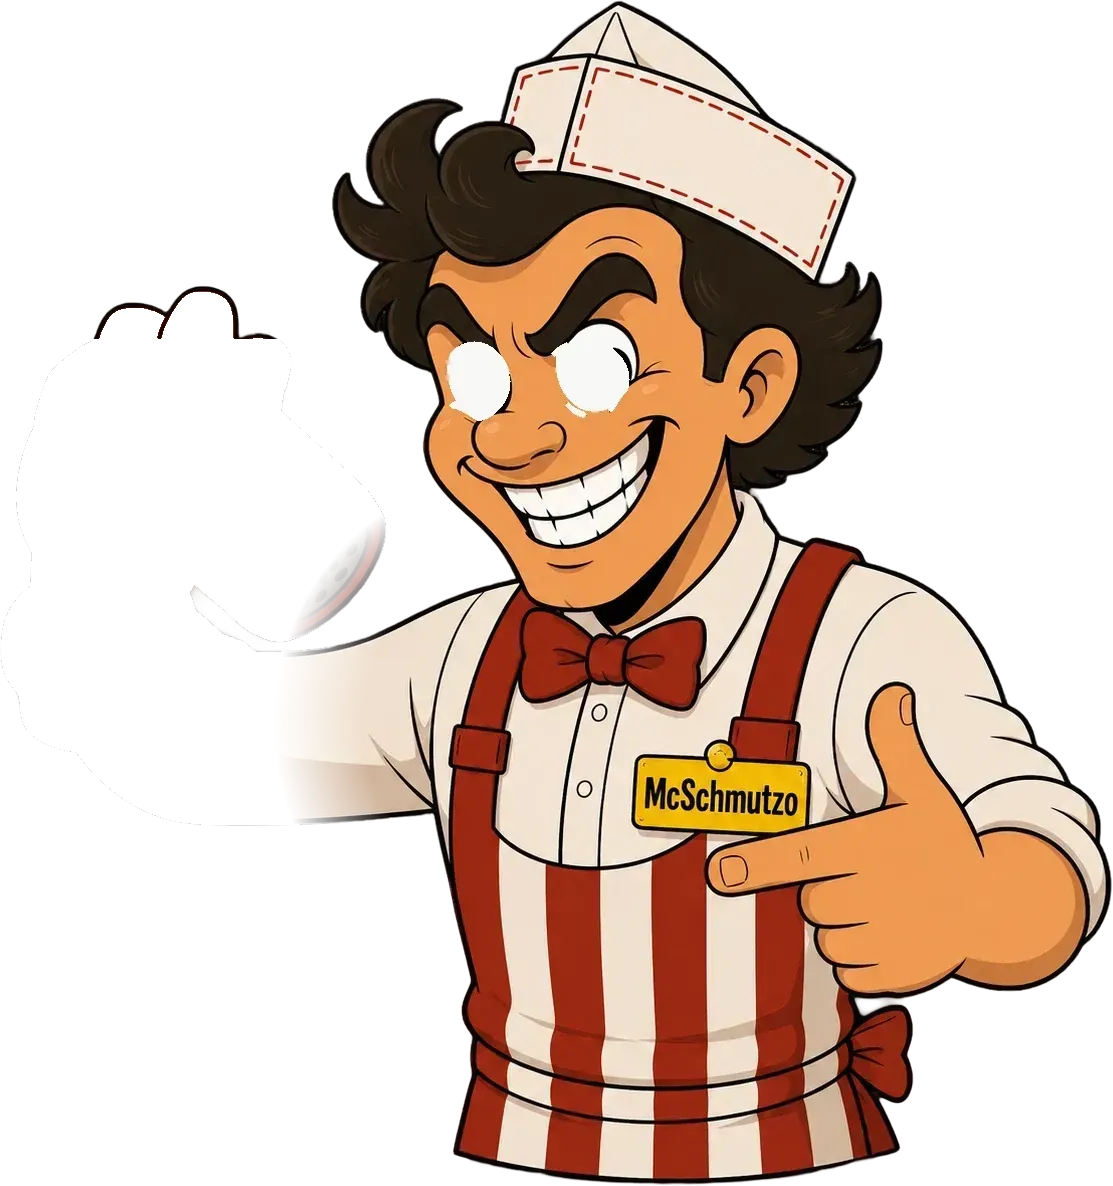
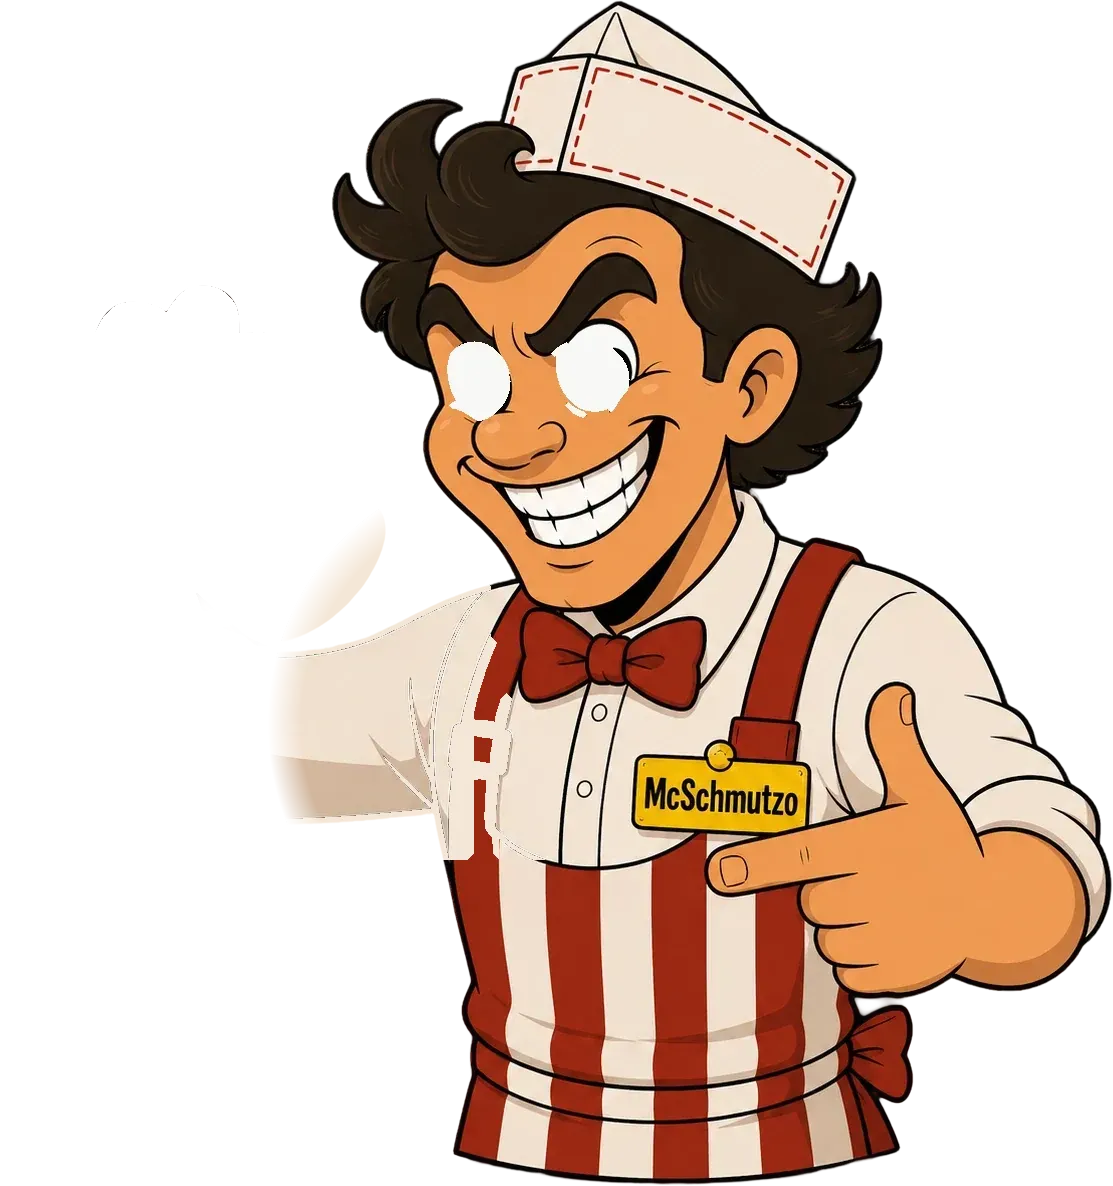
McSchmutzo: buy-bonus card animations + special chef arm outline fix
Buy-bonus modal: every feature card now animates like its board counterpart
instead of only the burger hopping.
- New BurgerStack.svelte rebuilds the H1 burger from its slice images and
  assembles / disassembles it (per-layer dy throw) exactly like the reels; the
  card clips + a reduced throw keep the burst clear of the copy/amount.
- Super Bonus wheel spins; both scatter-shack cards (Extra Chance + Normal
  Bonus) bob + rock, offset so they don't sway in lock-step.
- prefers-reduced-motion guarded.

Special (salting) chef: the leftover dark arm outline that showed when the
overlay arm flicked is gone — the kept shoulder patch now repaints the base
arm's outline as sleeve cream (outline-free) and the removed forearm/hand half
is fully cleared (dilated mask, no ghost). Verified in-game across a full shake
cycle: no black outline at the shoulder, no double at the hand, face intact.

diff --git a/apps/mcschmutzo/src/components/CustomBuyBonusModal.svelte b/apps/mcschmutzo/src/components/CustomBuyBonusModal.svelte
@@ -18,6 +18,7 @@
 	import { getContext } from '../game/context';
 	import { i18nDerived } from '../i18n/i18nDerived';
 	import { mcschmutzoStakeDerived } from '../state/mcschmutzoStake.svelte';
+	import BurgerStack from './BurgerStack.svelte';
 	import CustomConfirmModal from './CustomConfirmModal.svelte';
 
 	type ModeId = 'enhancer1' | 'featureSpin' | 'bonus1' | 'bonus2';
@@ -180,8 +181,20 @@
 				<div class="bb-divider"></div>
 				<p class="bb-desc">{i18nDerived.translate(mode.description)}</p>
 
-				<div class="bb-art" class:bb-art--burger={mode.id === 'featureSpin'}>
-					<img src={mode.art} alt="" draggable="false" />
+				<div
+					class="bb-art"
+					class:bb-art--burger={mode.id === 'featureSpin'}
+					class:bb-art--scatter={mode.id === 'bonus1'}
+					class:bb-art--wheel={mode.id === 'bonus2'}
+					class:bb-art--chance={mode.id === 'enhancer1'}
+				>
+					{#if mode.id === 'featureSpin'}
+						<!-- The Lock & Re-spin feature IS the burger symbol — rebuild it from its slices so it
+						     assembles / disassembles exactly like the reels. -->
+						<div class="bb-burger-holder"><BurgerStack /></div>
+					{:else}
+						<img src={mode.art} alt="" draggable="false" />
+					{/if}
 					{#if mode.badge}<span class="bb-badge">{mode.badge}</span>{/if}
 				</div>
 
@@ -398,22 +411,50 @@
 		object-fit: contain;
 		filter: drop-shadow(0 3px 5px rgba(0, 0, 0, 0.4));
 	}
-	/* The Lock & Re-spin feature IS the burger symbol — give it the board burger's playful energy: a
-	   seamless squash-and-stretch bounce ANCHORED at its base (transform-origin bottom), so the burger
-	   never translates and its base stays planted — the top rises only ~5% and the width grows ~5%,
-	   both well inside the card so the animation can never overflow into the copy or the amount badge. */
-	.bb-art--burger img {
-		transform-origin: 50% 100%;
-		animation: bb-burger-bob 2.1s ease-in-out infinite;
+	/* The Lock & Re-spin feature IS the burger symbol — it's rebuilt from its slices (BurgerStack) so it
+	   assembles / disassembles like the reels. The holder sizes it to the same footprint as the other
+	   icons and fixes the board cell's aspect so the slices line up. */
+	/* The burger card clips to its art box so the separating stack can never draw over the copy/amount,
+	   and the holder is left smaller than the others' icons to give the bun headroom to rise into. */
+	.bb-art--burger {
+		overflow: hidden;
 	}
-	@keyframes bb-burger-bob {
-		0%, 100% { transform: scale(1, 1); }
-		28% { transform: scale(0.96, 1.05); }
-		52% { transform: scale(1.05, 0.95); }
-		76% { transform: scale(0.99, 1.01); }
+	.bb-burger-holder {
+		height: clamp(52px, 9.5vmin, 82px);
+		aspect-ratio: 1.077;
+		/* Roughly half the reels' full throw — still a clear assemble/disassemble, but the extremes stay
+		   inside the (smaller) box. */
+		--sep: 0.55;
+	}
+	/* Super Bonus IS the prize wheel — spin it steadily so the card previews what it does. */
+	.bb-art--wheel img {
+		animation: bb-wheel-spin 5.5s linear infinite;
+	}
+	@keyframes bb-wheel-spin {
+		from { transform: rotate(0); }
+		to { transform: rotate(360deg); }
+	}
+	/* Both the Extra Chance and Normal Bonus cards show the SCATTER shack — bob + rock it gently on its
+	   base so it "moves" like it does when it lands. The two are offset so they don't sway in lock-step. */
+	.bb-art--scatter img,
+	.bb-art--chance img {
+		transform-origin: 50% 92%;
+		animation: bb-scatter-move 2.6s ease-in-out infinite;
+	}
+	.bb-art--chance img {
+		animation-delay: -1.3s;
+	}
+	@keyframes bb-scatter-move {
+		0%, 100% { transform: translateY(0) rotate(0deg); }
+		30% { transform: translateY(-5%) rotate(-1.8deg); }
+		70% { transform: translateY(-2.5%) rotate(1.8deg); }
 	}
 	@media (prefers-reduced-motion: reduce) {
-		.bb-art--burger img { animation: none; }
+		.bb-art--wheel img,
+		.bb-art--scatter img,
+		.bb-art--chance img {
+			animation: none;
+		}
 	}
 	.bb-badge {
 		position: absolute;

diff --git a/apps/mcschmutzo/src/components/BurgerStack.svelte b/apps/mcschmutzo/src/components/BurgerStack.svelte
@@ -1,0 +1,71 @@
+<script lang="ts">
+	import { ap } from '../lib/preloadArt';
+
+	// The board burger (H1) rebuilt from its part images so it can ASSEMBLE / DISASSEMBLE in HTML the
+	// same way it does on the reels: every slice slides out along its own dy (bun up, bottom bun down,
+	// fillings fan out) then settles back, on a loop. Geometry mirrors SYMBOL_PARTS.H1.
+	const P = '/assets/mcschmutzo/symbols/parts/burger/';
+	const PARTS = [
+		{ src: ap(P + 'bun_bottom.webp'), nx: 0.5, ny: 0.8587, nw: 0.9453, dy: 0.2 },
+		{ src: ap(P + 'patty.webp'), nx: 0.5, ny: 0.7389, nw: 1.0, dy: 0.1 },
+		{ src: ap(P + 'cheese.webp'), nx: 0.5, ny: 0.662, nw: 0.9435, dy: 0.03 },
+		{ src: ap(P + 'onion.webp'), nx: 0.5, ny: 0.6191, nw: 0.7322, dy: -0.03 },
+		{ src: ap(P + 'tomato.webp'), nx: 0.5, ny: 0.5921, nw: 0.8276, dy: -0.09 },
+		{ src: ap(P + 'lettuce.webp'), nx: 0.5, ny: 0.5092, nw: 0.8981, dy: -0.16 },
+		{ src: ap(P + 'bun_top.webp'), nx: 0.5, ny: 0.2396, nw: 0.9685, dy: -0.26 },
+	];
+</script>
+
+<div class="burger-stack">
+	{#each PARTS as p, i (i)}
+		<!-- Each layer sits in a full-box wrapper so translateY(dy*100%) = dy * the burger's height,
+		     matching the reels' dy*symbolHeight separation regardless of the slice's own size. -->
+		<div class="burger-layer" style={`z-index:${i}; --dy:${p.dy};`}>
+			<img
+				src={p.src}
+				alt=""
+				draggable="false"
+				style={`left:${p.nx * 100}%; top:${p.ny * 100}%; width:${p.nw * 100}%;`}
+			/>
+		</div>
+	{/each}
+</div>
+
+<style>
+	.burger-stack {
+		/* Fills its holder, which sizes it and enforces the board cell's ~1.077 aspect so the slice
+		   geometry (0..1 in both axes) lands correctly. */
+		position: relative;
+		width: 100%;
+		height: 100%;
+		filter: drop-shadow(0 3px 5px rgba(0, 0, 0, 0.4));
+	}
+	.burger-layer {
+		position: absolute;
+		inset: 0;
+		will-change: transform;
+		/* Out-and-back over one loop; ease-in-out approximates the reels' cosine. */
+		animation: burger-sep 1.8s ease-in-out infinite;
+	}
+	.burger-layer img {
+		position: absolute;
+		height: auto;
+		transform: translate(-50%, -50%);
+	}
+	@keyframes burger-sep {
+		0%,
+		100% {
+			transform: translateY(0);
+		}
+		50% {
+			/* --sep scales the reels' full dy*height throw so callers can keep the burst inside a small
+			   card (default = the reels' full separation). */
+			transform: translateY(calc(var(--dy) * var(--sep, 1) * 100%));
+		}
+	}
+	@media (prefers-reduced-motion: reduce) {
+		.burger-layer {
+			animation: none;
+		}
+	}
+</style>
